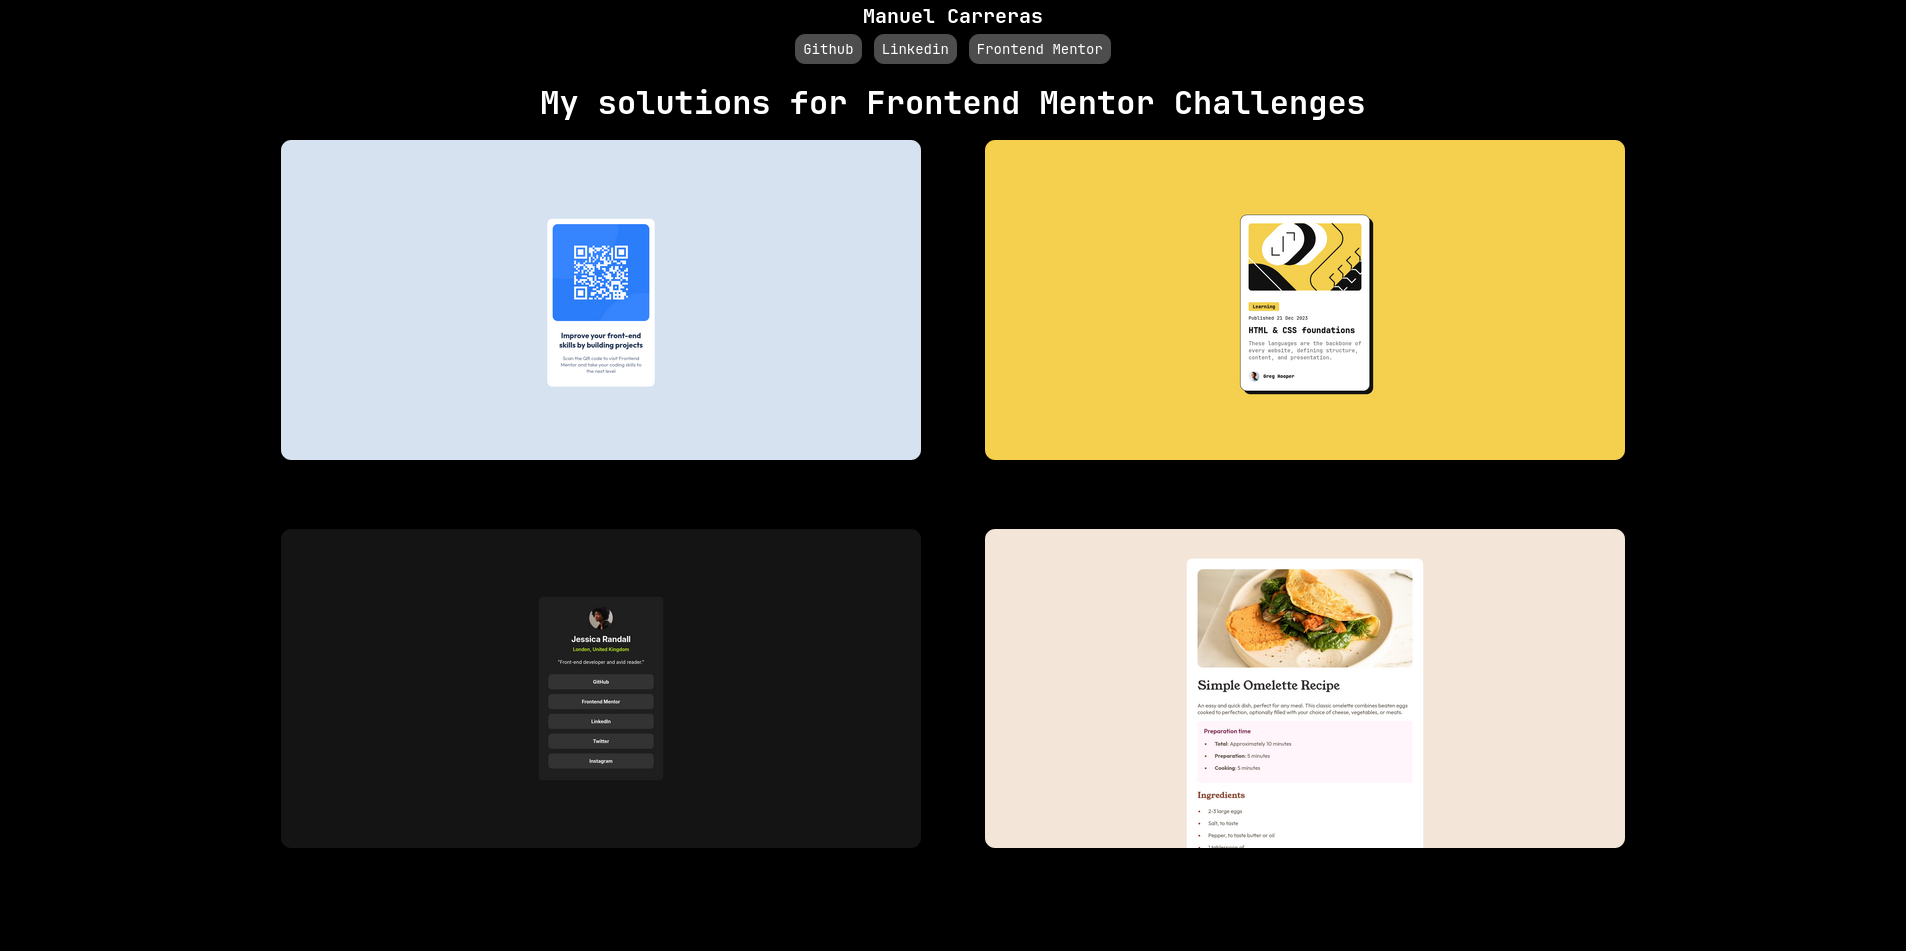
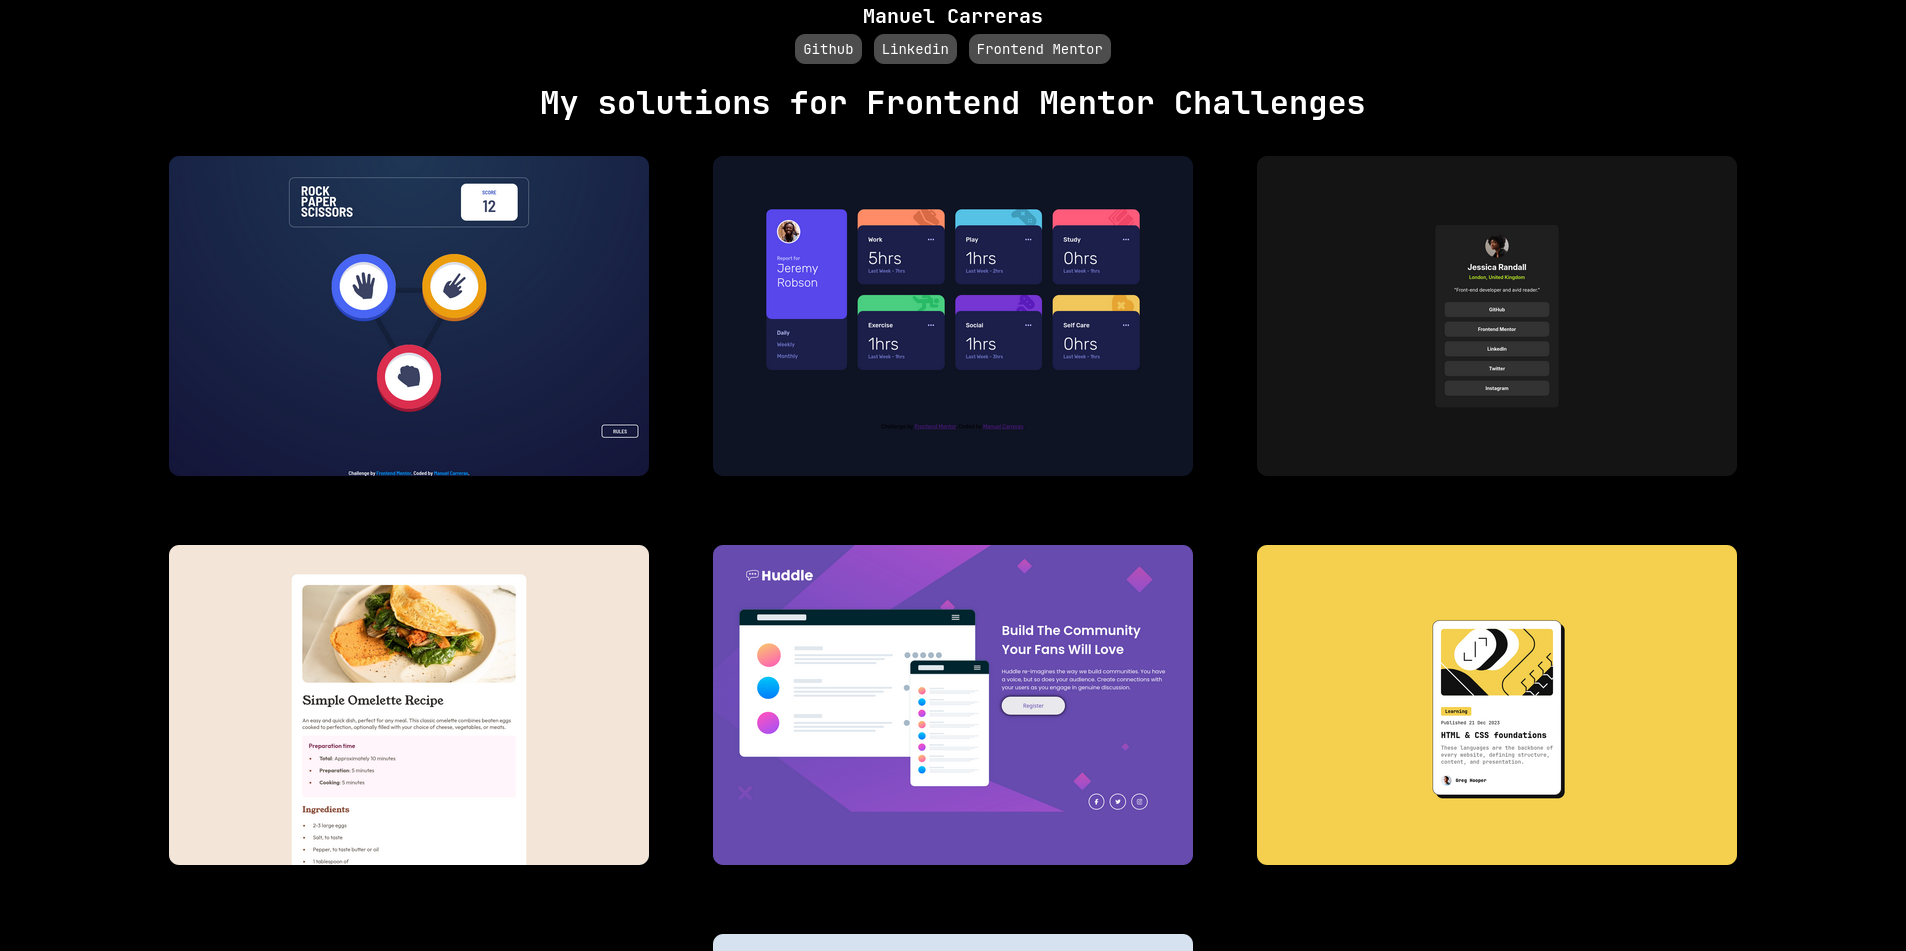
agrego proyecto y cambio imagen en readme

diff --git a/index.html b/index.html
@@ -21,6 +21,9 @@
 			<h1 class="title">My solutions for Frontend Mentor Challenges</h1>
 			<div class="container">
 				<div class="divProyecto">
+					<a href="https://manugolem.github.io/rock-paper-scissors/" target="_blank"><img src="images/rock-paper-scissors.png" class="img" /></a>
+				</div>
+				<div class="divProyecto">
 					<a href="https://manugolem.github.io/time-tracking-profile/" target="_blank"><img src="images/time-preview.png" class="img" /></a>
 				</div>
 				<div class="divProyecto">
